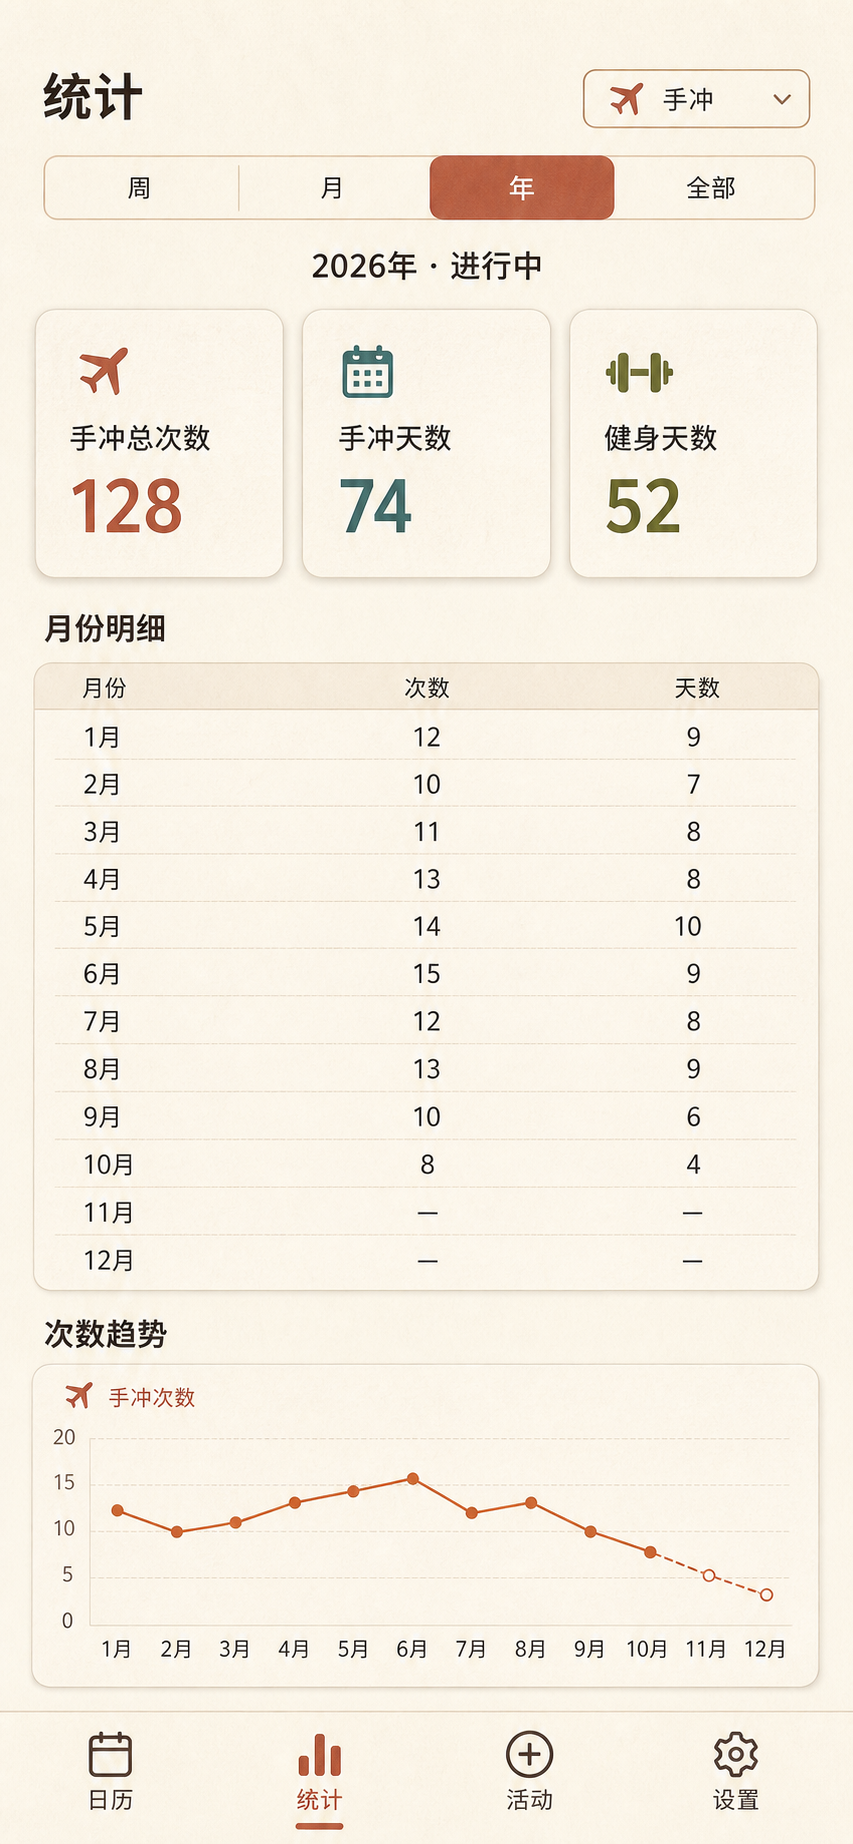
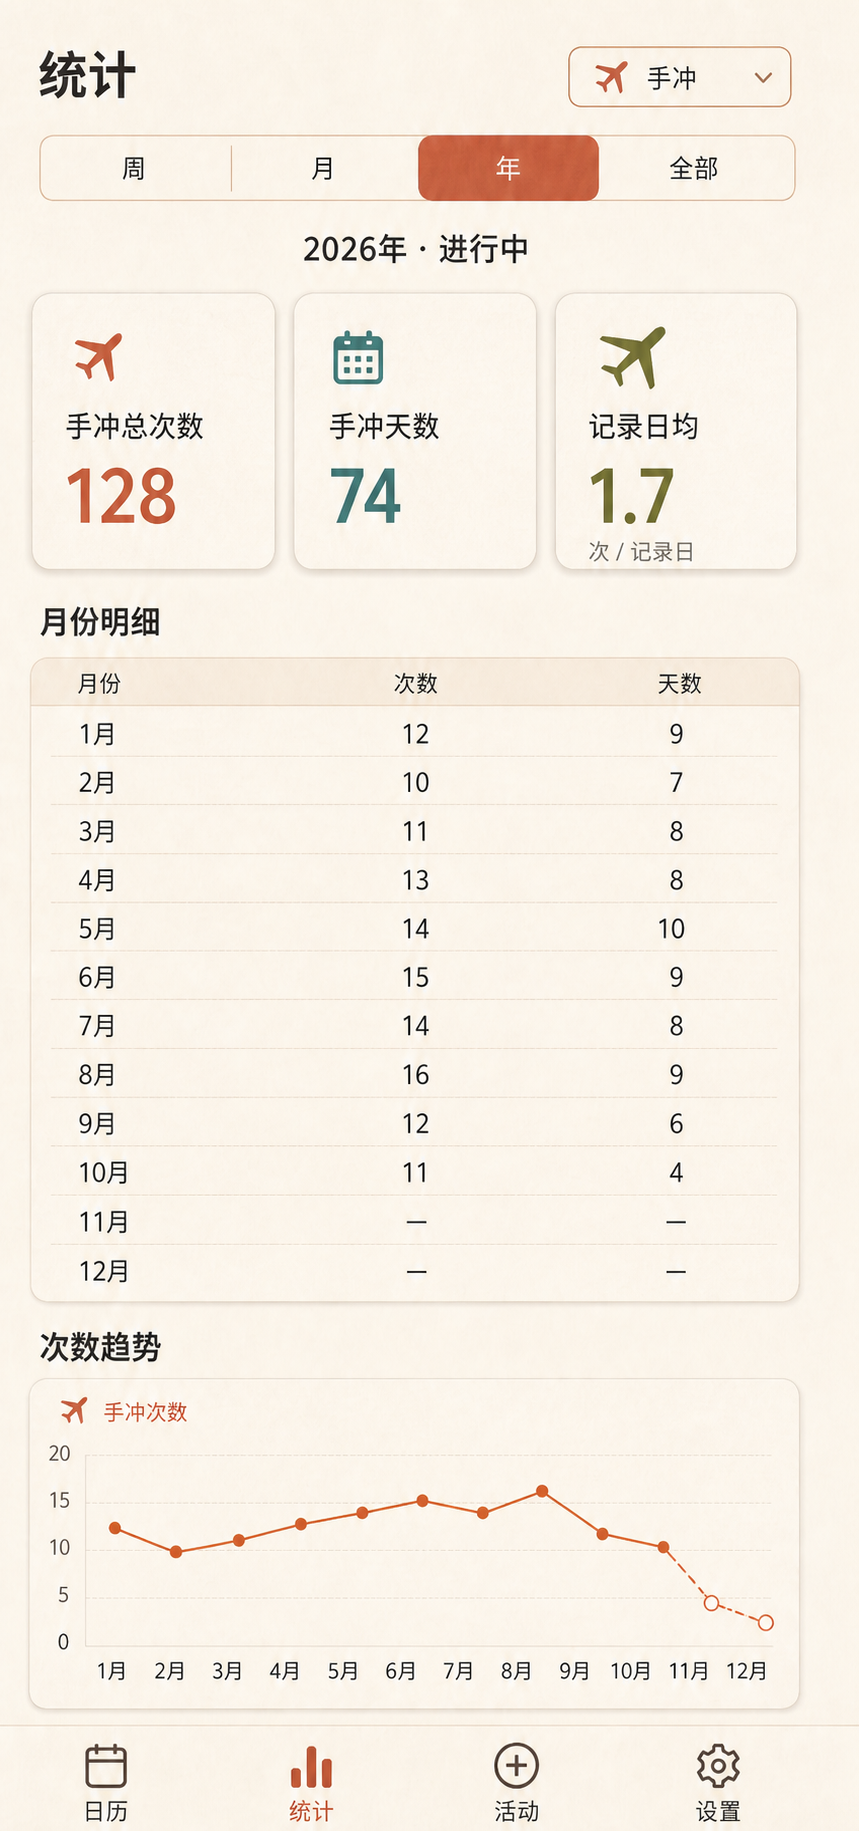
docs: fix statistics filter scope

diff --git a/docs/STATISTICS.md b/docs/STATISTICS.md
@@ -41,6 +41,15 @@ totalCount = SUM(quantity)，排除 deletedAt 非空的记录
 
 没有配置目标之前，不展示“完成率”，否则分母不明确。
 
+## 活动筛选作用域
+
+- 顶部活动选择器决定整页统计作用域；选择“手冲”后，汇总卡、表格和趋势图只能读取手冲记录。
+- 单个次数型活动的默认汇总卡为：总次数、活动天数、记录日均次数。
+- `记录日均次数 = totalCount / activityDays`，活动天数为 0 时显示 `0` 和空状态说明；展示保留 1 位小数。
+- 只有选择“全部活动”时，才允许并列展示手冲天数、健身天数等跨活动摘要，并且每张卡必须明确活动名称。
+- 时间范围中的“全部”表示全部历史时间，不能改变当前活动筛选，也不能被理解为“全部活动”。
+- 汇总卡、周期表和趋势图必须来自同一个筛选条件与同一个查询结果；年度月份次数之和必须等于该年度总次数。
+
 ## 表格
 
 - 周表：7 行或 7 列，展示日期、状态、次数。

diff --git a/docs/UI_UX.md b/docs/UI_UX.md
@@ -33,6 +33,8 @@
 ## 统计页
 
 - 顶部选择活动和周期。
+- 活动选择器约束整页；选中单一活动后不得混入其他活动指标。
+- “全部活动”与时间周期中的“全部历史”使用不同控件和明确文案，避免两个“全部”混淆。
 - 第一屏优先展示主指标，不堆叠过多卡片。
 - 周/月/年表格提供精确值，图表用于观察趋势。
 - 热力图必须配图例并支持色觉友好主题。

diff --git a/docs/product/PROTOTYPE_V1.md b/docs/product/PROTOTYPE_V1.md
@@ -19,7 +19,7 @@
 
 ![统计](assets/prototype-v1/03-statistics.png)
 
-验证点：周/月/年/全部周期、总次数与总天数分离、月份明细优先、趋势图为辅助、不展示无分母的完成率。
+验证点：周/月/年/全部历史周期；选择“手冲”后只展示手冲总次数、手冲天数和记录日均，月份明细之和等于年度总次数；趋势图为辅助，不展示无分母的完成率。
 
 ## 4. 活动管理
 

diff --git a/docs/product/USER_STORIES_AND_ACCEPTANCE.md b/docs/product/USER_STORIES_AND_ACCEPTANCE.md
@@ -85,6 +85,8 @@
 
 - 总次数等于未删除每日 quantity 之和。
 - 活动天数等于 `quantity > 0` 或 `status == DONE` 的不同本地日期数。
+- 选择单一活动后，汇总卡、表格和图表不得混入其他活动的数据。
+- 只有“全部活动”视图允许显示多个活动的摘要，且每个指标必须明确活动名称。
 - 周、月、年均可切换到过去周期。
 - 当前未结束周期标注“进行中”。
 - 空数据展示 0 和解释，不使用 `--` 混淆未知。

diff --git a/docs/product/SPRINT_0_LOG.md b/docs/product/SPRINT_0_LOG.md
@@ -25,6 +25,7 @@
 | 视觉原型 | 生成月历、日期详情、统计、活动管理和组件规范 | [仓库原型入口](PROTOTYPE_V1.md) |
 | Figma 原型 | 建立独立可编辑原型文件 | [打开工作区](https://www.figma.com/design/PMtsNNL81BHl9HyJYhjbdw)；Starter MCP 写入额度已满，待恢复后迁移为原生图层 |
 | 指标 | 增加多活动可读性指标 | 4/8+ 汇总数与单活动筛选识别正确率目标均为 90% |
+| 统计复核 | 修正单活动筛选混入健身指标的问题 | “手冲”视图只保留手冲指标，并校验月表合计等于年度总次数 |
 
 ## 本轮已冻结的决策
 